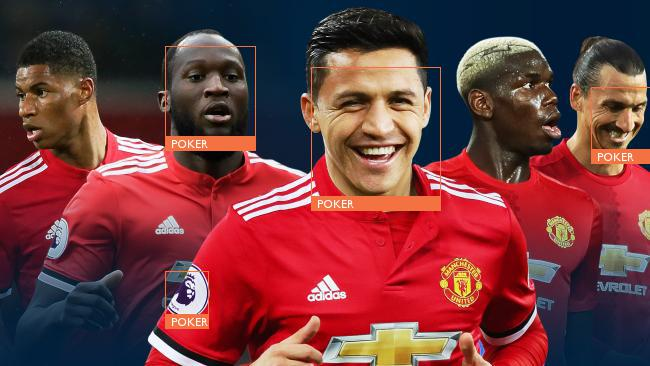
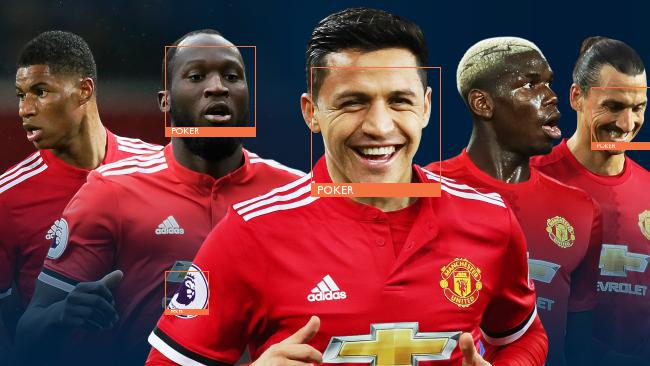
dynamic bbox and text

diff --git a/app/detector.py b/app/detector.py
@@ -2,8 +2,9 @@ import face_recognition
 from PIL import Image, ImageDraw, ImageFont
 
 
-fnt = ImageFont.truetype('app/static/gillsans.ttf', size=12)
 rect_color = (244, 113, 66)
+fnt_sizes = {sz: ImageFont.truetype('app/static/gillsans.ttf', size=sz)
+             for sz in range(1, 72)}
 
 def detect_faces(image):
     """ Detects faces in the supplied image file """
@@ -21,7 +22,7 @@ def draw_rects(image, face_locations, emotions="Poker"):
     # Convert the image to a PIL-format image so that we can
     # draw on top of it with the Pillow library
     # See http://pillow.readthedocs.io/ for more about PIL/Pillow
-    pil_image = Image.fromarray(image[:,:,::-1])
+    pil_image = Image.fromarray(image[:, :, ::-1])
 
     # Create a Pillow ImageDraw Draw instance to draw with
     draw = ImageDraw.Draw(pil_image)
@@ -31,11 +32,14 @@ def draw_rects(image, face_locations, emotions="Poker"):
         draw.rectangle(((left, top), (right, bottom)), outline=rect_color)
 
         # Draw a label with a name below the face
-        text_width, text_height = draw.textsize(emotion)
-        draw.rectangle(((left, bottom - text_height + 25), (right, bottom)),
-                       fill=rect_color, outline=rect_color)
-        draw.text((left + 6, bottom - text_height + 13), "POKER", font=fnt,
-                  fill=(255, 255, 255, 255))
+        box_height = 0.1 * (bottom - top)
+        fnt = fnt_sizes[int(box_height)]
+        text_width, text_height = draw.textsize(emotion, font=fnt)
+
+        draw.rectangle(((left, bottom - box_height),
+                        (right, bottom)), fill=rect_color, outline=rect_color)
+        draw.text((left + 6, bottom - (0.9 * box_height)), "POKER",
+                  font=fnt, fill=(255, 255, 255, 255))
 
     del draw
 
